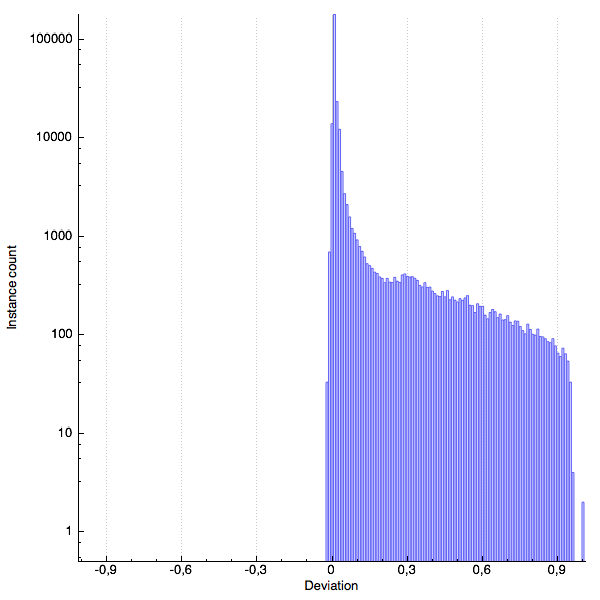
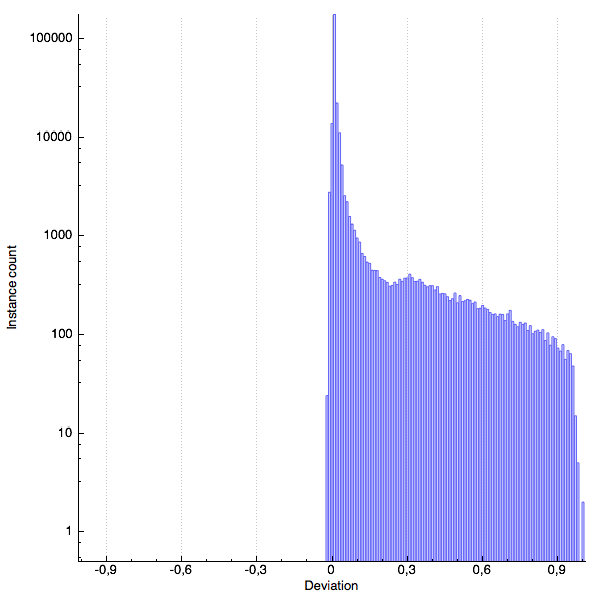
dot product added

diff --git a/nori_framework/src/main.cpp b/nori_framework/src/main.cpp
@@ -50,7 +50,7 @@ void render(Scene *scene, const QString &filename, int version) {
 	NoriWindow window(&result);
 
 	/* Launch one render thread per core */
-	int nCores = 1;//getCoreCount();
+	int nCores = getCoreCount();
 	std::vector<BlockRenderThread *> threads;
 	for (int i=0; i<nCores; ++i) {
 		BlockRenderThread *thread = new BlockRenderThread(

diff --git a/nori_framework/src/ex4/path.cpp b/nori_framework/src/ex4/path.cpp
@@ -23,8 +23,8 @@ NORI_NAMESPACE_BEGIN
 #define GROUP_NUMBER 10
 #define probability_to_continue_eye 0.8
 #define probability_to_continue_light 0.9
-#define max_eye_points 1
-#define max_light_points 3
+#define max_eye_points 1000
+#define max_light_points 1000
 
 GROUP_NAMESPACE_BEGIN()
 
